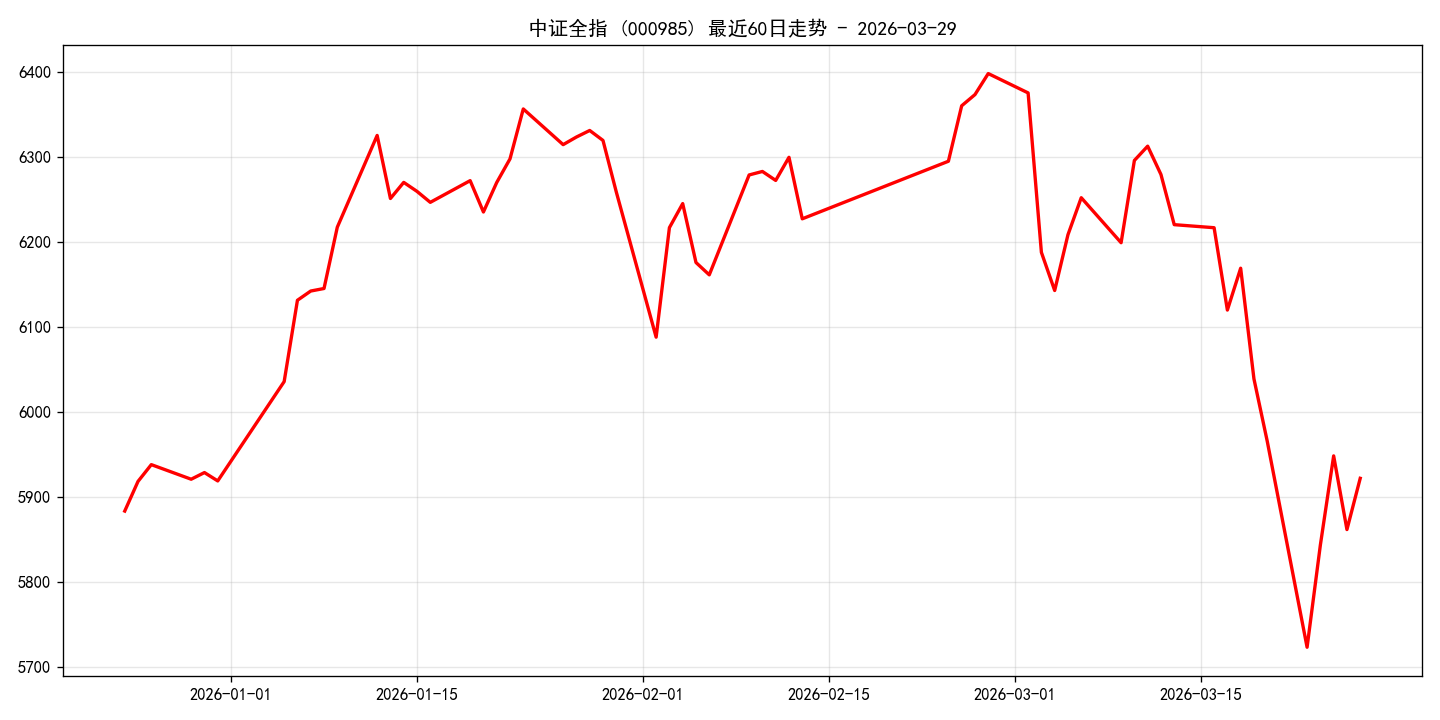
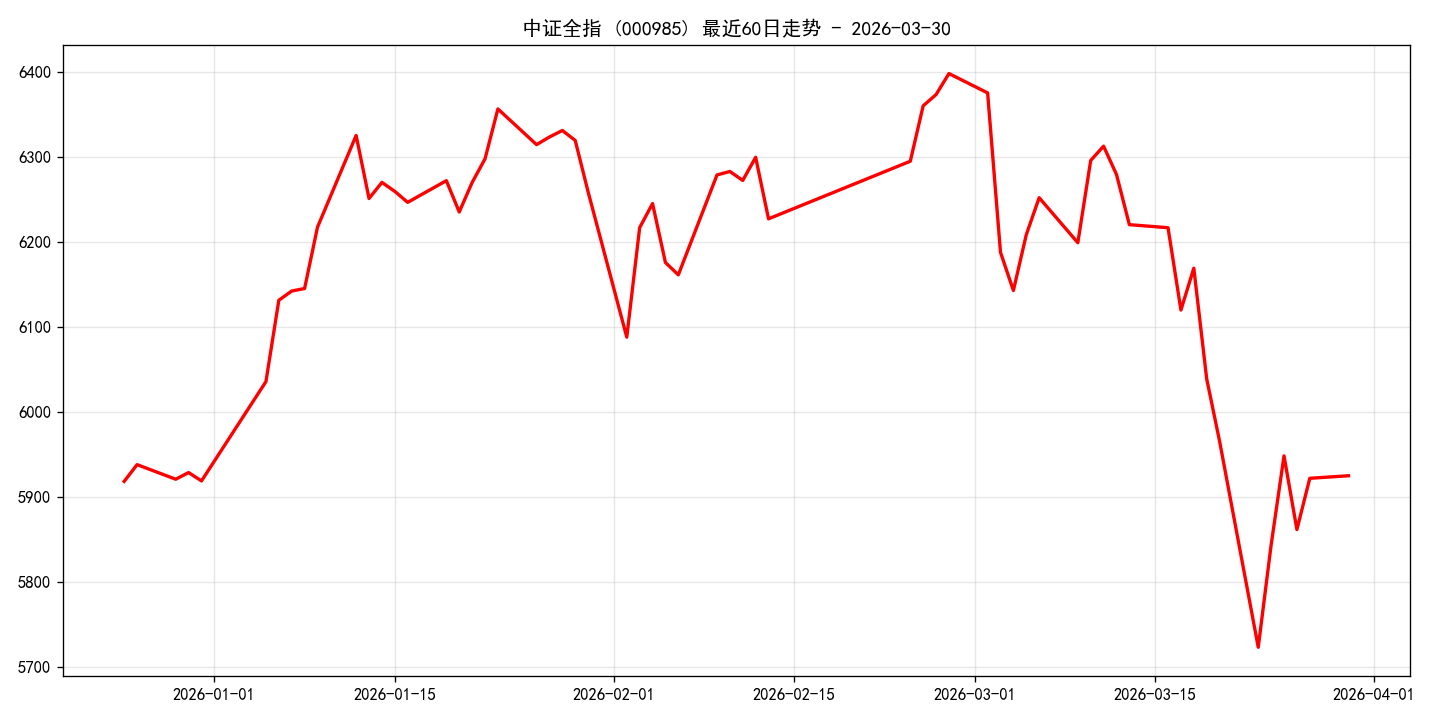
Auto: Daily A-share Recap Update

diff --git a/ashare_recap.html b/ashare_recap.html
@@ -3,7 +3,7 @@
 <head>
     <meta charset="UTF-8">
     <meta name="viewport" content="width=device-width, initial-scale=1.0">
-    <title>A股收盘复盘 - 2026-03-29</title>
+    <title>A股收盘复盘 - 2026-03-30</title>
     <style>
         body { font-family: sans-serif; padding: 20px; line-height: 1.6; max-width: 800px; margin: 0 auto; background: #f9f9f9; }
         .card { background: white; padding: 20px; border-radius: 12px; shadow: 0 4px 10px rgba(0,0,0,0.1); }
@@ -15,12 +15,12 @@
 </head>
 <body>
     <div class="card">
-        <h1>A股收盘复盘 (2026-03-29)</h1>
+        <h1>A股收盘复盘 (2026-03-30)</h1>
         <div class="stat">
-            中证全指：5922.21 
-            <span class="up">(+1.03%)</span>
+            中证全指：5925.21 
+            <span class="up">(+0.05%)</span>
         </div>
-        <p>今日市场呈现<strong>上涨</strong>态势。成交额约为 18253.26 亿元。</p>
+        <p>今日市场呈现<strong>上涨</strong>态势。成交额约为 18869.88 亿元。</p>
         <img src="ashare_recap_trend.png" alt="Trend">
         <hr>
         <p style="text-align: center; color: #666;">自动生成于收盘后一小时 | 投研助手 Q</p>
